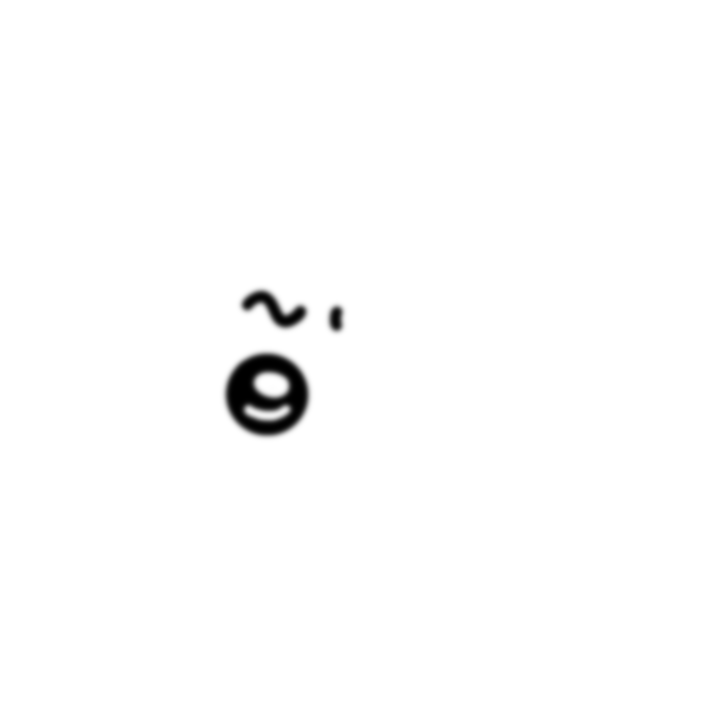
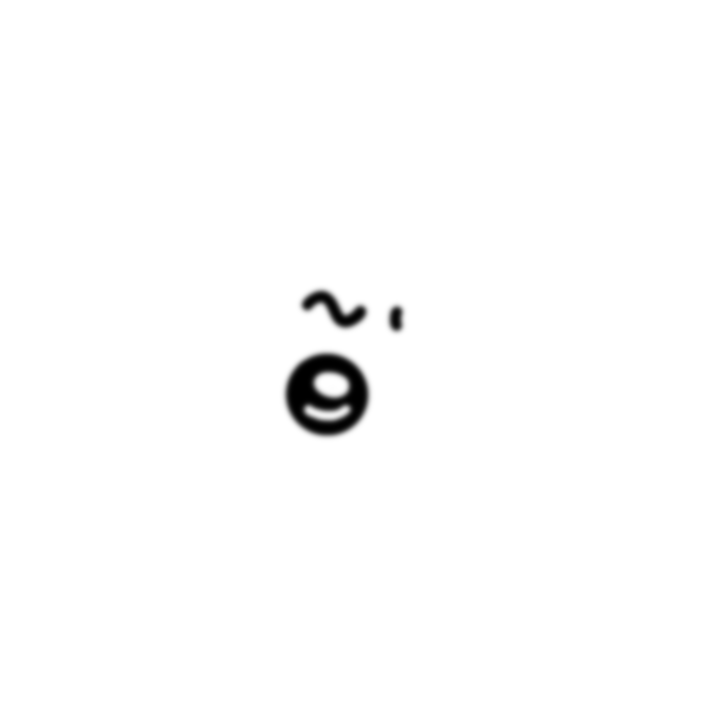
get camera size

Changed region(s): [[0.3056, 0.4889, 0.5194, 0.6111], [0.3361, 0.3972, 0.5806, 0.4583]]

diff --git a/tiikawapose.py b/tiikawapose.py
@@ -4,6 +4,8 @@ import numpy as np
 from PIL import Image
 import os
 import random
+import math
+
 
 # MediaPipeとOpenCVの設定
 mp_pose = mp.solutions.pose
@@ -12,10 +14,16 @@ mp_pose = mp.solutions.pose
 cap = cv2.VideoCapture(0)
 
 # 黒画像を作成
-black_img0 = Image.new('RGBA', (640, 480), (0, 0, 0, 200))
+black_img0 = Image.new('RGBA', (int(cap.get(cv2.CAP_PROP_FRAME_WIDTH)), int(cap.get(cv2.CAP_PROP_FRAME_WIDTH))), (0, 0, 0, 200))
 black_img0.save('black_image_with_alpha.png')
 black_img = cv2.imread('black_image_with_alpha.png', cv2.IMREAD_UNCHANGED)
 
+# 装飾用カウントとフラグ
+deco_count = 0
+deco_flag = False
+
+# うさぎかどうかのフラグ
+usagi_flag = False
 
 # ランダムにフォルダを選択する関数
 def load_images_with_names_from_random_subfolder(parent_folder):
@@ -43,8 +51,19 @@ mouth_image = cv2.imread('./images/' + str(random_subfolder_name) + '/mouth_imag
 
 # 画像をリサイズする関数
 def resize_image(image, scale):
-    # スケーリング処理
+
+    # scaleが正の値か確認
+    if scale <= 0:
+        raise ValueError("Scale must be positive.")
+
+    # 新しいサイズを計算
     new_size = (int(image.shape[1] * scale), int(image.shape[0] * scale))
+
+    # new_sizeの各値が0でないことを確認
+    if new_size[0] <= 0 or new_size[1] <= 0:
+        raise ValueError("Calculated new size has zero or negative dimensions.")
+
+    # 画像をリサイズ
     resized_image = cv2.resize(image, new_size, interpolation=cv2.INTER_AREA)
 
     return resized_image
@@ -104,6 +123,35 @@ def draw_thick_skeleton(image, landmarks, connections, thickness=20, color=(255,
         cv2.line(image, (start_x, start_y), (end_x, end_y), color, thickness)
 
 
+# 距離を計算する関数
+def calculate_distance(landmark1, landmark2, image_width, image_height):
+
+    x1, y1 = int(landmark1.x * image_width), int(landmark1.y * image_height)
+    x2, y2 = int(landmark2.x * image_width), int(landmark2.y * image_height)
+
+    return math.sqrt((x2 - x1) ** 2 + (y2 - y1) ** 2)
+
+
+# 両手が顔の近くにあるかを判定する関数
+def is_hands_near_face(landmarks, image_width, image_height, eye_distance, threshould_ratio=1.5):
+
+    # 鼻と両手のランドマークを取得
+    nose = landmarks[mp_pose.PoseLandmark.NOSE]
+    left_hand = landmarks[mp_pose.PoseLandmark.LEFT_INDEX]
+    right_hand = landmarks[mp_pose.PoseLandmark.RIGHT_INDEX]
+
+    # 両手と顔の距離を計算
+    left_distance = calculate_distance(nose, left_hand, image_width, image_height)
+    right_distance = calculate_distance(nose, right_hand, image_width, image_height)
+
+    # 両手と顔の距離が閾値いないなら、顔の近くにあると判定
+    threshould_distance = threshould_ratio * eye_distance
+    left_near_face = left_distance < threshould_distance
+    right_near_face = right_distance < threshould_distance
+
+    return None
+
+
 # メインの処理
 with mp_pose.Pose(min_detection_confidence=0.5, min_tracking_confidence=0.5) as pose:
     while cap.isOpened():
@@ -132,7 +180,10 @@ with mp_pose.Pose(min_detection_confidence=0.5, min_tracking_confidence=0.5) as 
             mouth = results.pose_landmarks.landmark[mp_pose.PoseLandmark.MOUTH_LEFT]
 
             # 画像上のピクセル距離を計算
-            eye_distance = np.sqrt((left_eye.x - right_eye.x)**2 + (left_eye.y - right_eye.y)**2) * frame.shape[1]
+            eye_distance = calculate_distance(left_eye, right_eye, frame.shape[1], frame.shape[0])
+
+            # 両手が顔の近くにあるか判定
+            is_hands_near_face(results.pose_landmarks.landmark, frame.shape[1], frame.shape[0], eye_distance)
 
             # 基準とする目の距離(基準とするピクセルを指定)
             scale = eye_distance / 100
